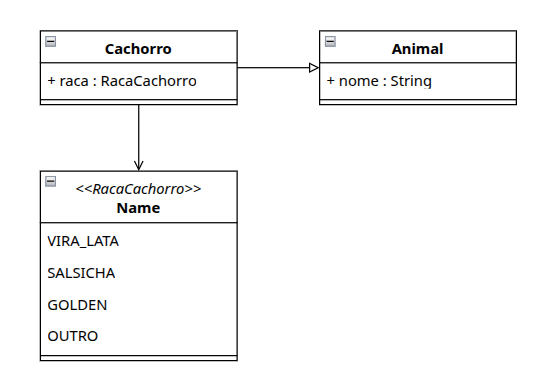
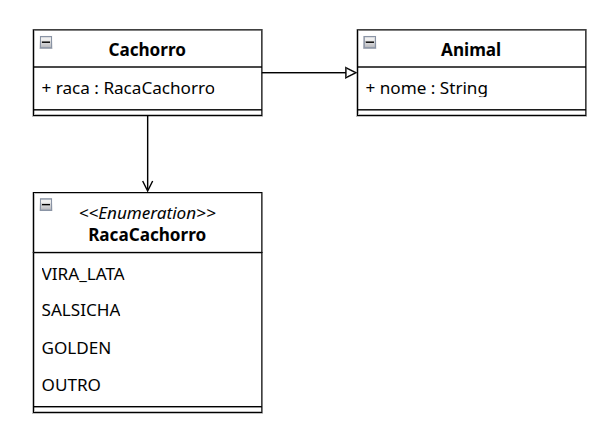
feat: cria paginas para composicao, agregacao e multiplicidade

Changed region(s): [[0.0311, 0.062, 0.9963, 0.9612]]

diff --git a/src/main/com/agregacao/Exemplo.java b/src/main/com/agregacao/Exemplo.java
@@ -1,0 +1,10 @@
+package main.com.agregacao;
+
+class Pesso {
+    public String nome;
+    public Acessorio acessorio;
+}
+
+class Acessorio {
+    public String nome;
+}

diff --git a/src/main/com/composicao/Exemplo.java b/src/main/com/composicao/Exemplo.java
@@ -1,0 +1,10 @@
+package main.com.composicao;
+
+class Pessoa {
+    public String nome;
+    public CPF cpf;
+}
+
+class CPF {
+    public String valor;
+}

diff --git a/src/main/com/composicao/COMPOSICAO.md b/src/main/com/composicao/COMPOSICAO.md
@@ -1,25 +1,32 @@
 ### [Índice](../../../../README.md)
 
-# Associação bidirecional
+# Composição
 
-Representada por uma linha
+Representada por uma linha sólida com um losango preenchido na extremidade. Significa uma relação de pertencimento.
 
 ## Símbolo
 
-<img src="/src/main/resources/images/" width="300pt">
+<img src="/src/main/resources/images/composicao.png" width="300pt">
 
 ## Quando usar
 
-Utilize quando
+Utilize quando uma classe é **parte** de um **todo**, e não pode existir sem o **todo**.
 
 ## Exemplo
 
-<img src="/src/main/resources/images/" width="600pt">
+<img src="/src/main/resources/images/exemplo_composicao.png" width="600pt">
 
 
 ````java
+class Pessoa {
+    public String nome;
+    public CPF cpf;
+}
 
+class CPF {
+    public String valor;
+}
 ````
 [Acessar código](Exemplo.java)
 
-### [Próximo ()](../associacao_unidirecional/.md)
+### [Próximo (Agregação)](../agregacao/AGREGACAO.md)

diff --git a/src/main/com/agregacao/AGREGACAO.md b/src/main/com/agregacao/AGREGACAO.md
@@ -1,0 +1,32 @@
+### [Índice](../../../../README.md)
+
+# Agregação
+
+Representada por uma linha sólida com um losango não preenchido na extremidade. Significa que uma classe agrega a outra.
+
+## Símbolo
+
+<img src="/src/main/resources/images/agregacao.png" width="300pt">
+
+## Quando usar
+
+Utilize quando uma classe pertence a um **todo**, porém, pode existir sem o **todo**.
+
+## Exemplo
+
+<img src="/src/main/resources/images/exemplo_agregacao.png" width="600pt">
+
+
+````java
+class Pesso {
+    public String nome;
+    public Acessorio acessorio;
+}
+
+class Acessorio {
+    public String nome;
+}
+````
+[Acessar código](Exemplo.java)
+
+### [Próximo (Multiplicidade)](../multiplicidade/MULTIPLICIDADE.md)

diff --git a/README.md b/README.md
@@ -16,9 +16,9 @@ Este repositório compila conhecimentos necessários para ler e desenvolver um *
    4. [Herança](src/main/com/heranca/HERANCA.md)
    5. [Implementação](src/main/com/implementacao/IMPLEMENTACAO.md)
    6. [Composição](src/main/com/composicao/COMPOSICAO.md)
-   7. [Agregação](src/main/com/agregacao/AGRECACAO.md)
+   7. [Agregação](src/main/com/agregacao/AGREGACAO.md)
 3. [Multiplicidade](src/main/com/multiplicidade/MULTIPLICIDADE.md)
-4. [Pacores](src/main/com/pacotes/PACOTES.md)
+4. [Pacotes](src/main/com/pacotes/PACOTES.md)
 
 
 ## Referências

diff --git a/src/main/com/multiplicidade/MULTIPLICIDADE.md b/src/main/com/multiplicidade/MULTIPLICIDADE.md
@@ -1,0 +1,8 @@
+### [Índice](../../../../README.md)
+
+# Multiplicidade
+
+
+
+
+### [Próximo (Pacotes)](../pacotes/PACOTES.md)
